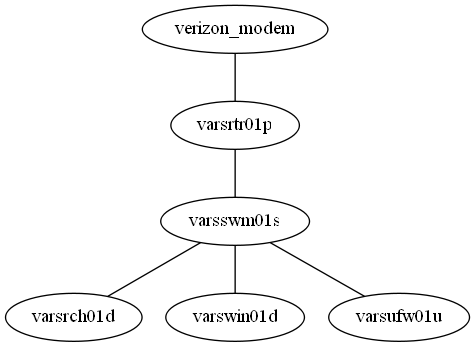
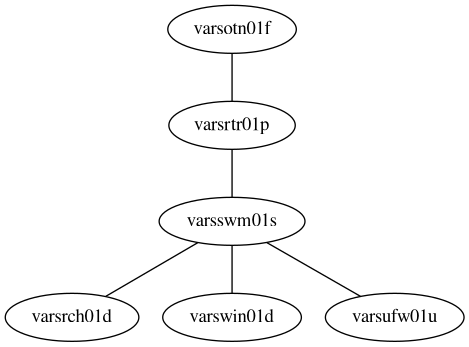
Using more standardized names and fixing some mistakes.

diff --git a/README.md b/README.md
@@ -1,14 +1,14 @@
 # sysconfig
 
-A set of configuration files and basic systems documentation
+A set of configuration files and basic systems documentation for systems I maintain.
 
 ## Locations
 
 * [`ctha`](ctha/README.md) - DNET Location
-* [`nyhj`](nyhj/README.md) - Eagle's Nest - **NOTICE** - Soon to be decommissioned Aug 13, 2020
+* [`nyhj`](nyhj/README.md) - Eagle's Nest
 * [`vars`](vars/README.md) - VARS - Note: Not commissioning before Aug 14, 2020
-* [`vadu`](vadu/README.md) - AWS us-east-1
-* [`ohhi`](ohhi/README.md) - AWS us-east-2
+* [`vadu`](vadu/README.md) - us-east-1 (aws)
+* [`ohhi`](ohhi/README.md) - us-east-2 (aws)
 
 ## Hostname Decoding
 
@@ -22,7 +22,7 @@ All the hostnames are on top of the infrastructure TLD, `ja4.org`.
 
 ### Location Code
 
-4 character location code (generally, 2 letters of state and 2 letters of city)
+4 character location code (generally, 2 letters of state and 2 letters of city), only letters `a-z`
 
 * `ctha` - DNET
 * `nyhj` - Eagle's Nest
@@ -30,13 +30,17 @@ All the hostnames are on top of the infrastructure TLD, `ja4.org`.
 
 ### Purpose Code
 
-3 character purpose code (service)
+3 character purpose code (service), only letters `a-z`
 
 * Network Infrastructure:
     * `rtr` - Router
+    * `mtr` - Modem Router Combo (ick!)
+    * `otn` - Fiber POP Box
+    * `mdm` - Cable Modem
     * `msw` - Managed Switch
     * `usw` - Unmanaged Switch
     * `ufw` - Unifi WiFi Dish
+    * `vct` - Verizon Cell Tower
 * General computing devices:
     * `gln` - General Linux System
     * `rch` - Arch Linux
@@ -47,23 +51,36 @@ All the hostnames are on top of the infrastructure TLD, `ja4.org`.
     * `cth` - Container Host
     * `eln` - Probably related to [eln2](https://eln2.org)
     * `git` - Git Server (likely Gitea)
+    * `web` - Web Server (of some kind)
 
 ### Device Type
 
-* `p` - PC Engines APU
-* `s` - Server
+Only letters `a-z`
+
+* `a` - ARM System
+* `c` - Cisco
 * `d` - Desktop
+* `f` - Media Converter (for fiber)
 * `l` - Laptop
+* `m` - MicroTik
+* `n` - Stands for "Not Worthy" (but works). Typically, some consumer-y device.
+* `o` - Other
+* `p` - PC Engines APU
+* `r` - Raspberry Pi
+* `s` - Server
 * `t` - TP-Link
 * `u` - Ubiquiti
 * `v` - Virtual Machine/Container
-* `f` - Media Converter (for fiber)
-* `r` - Raspberry Pi
-* `a` - ARM System
 
 ### Examples:
 
-`nyhjrtr04p` - Router located at Eagle's Nest, it's the 4th router iteration and it's a PC Engines device (apu3c4).
+`cthartr01p` - Router located at DNET, it's the 1st router iteration, and it's a PC Engines device (apu3c4).
+
+## Generating DOT files on Linux
+
+```shell script
+dot -Tpng network.dot -o network.png
+```
 
 ## Generating DOT files from Git Bash
 
